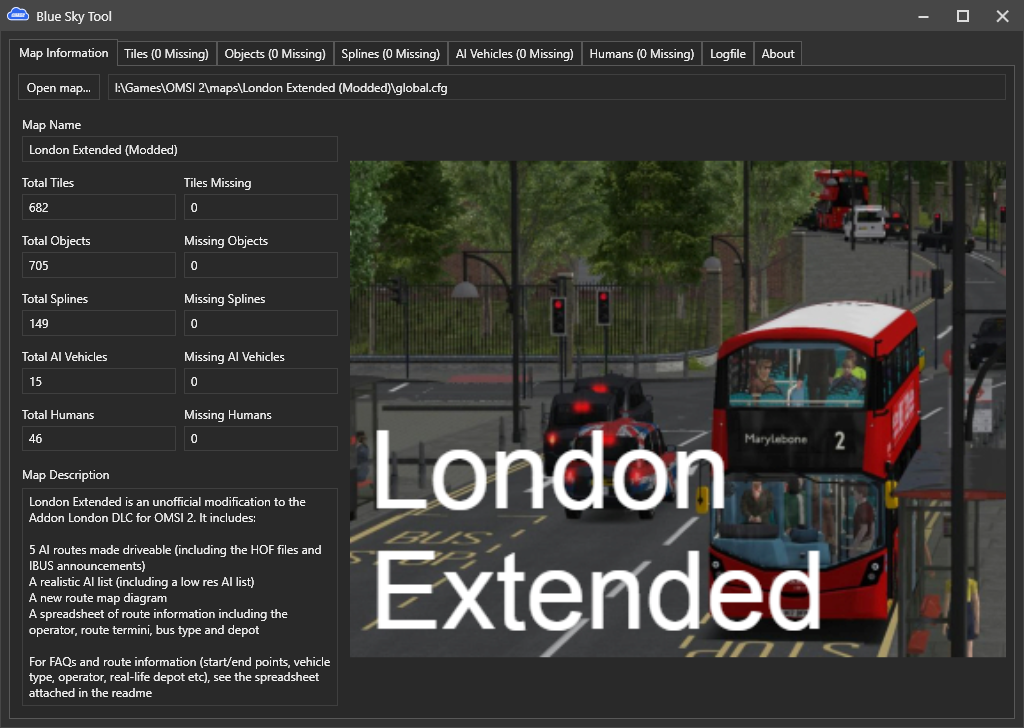
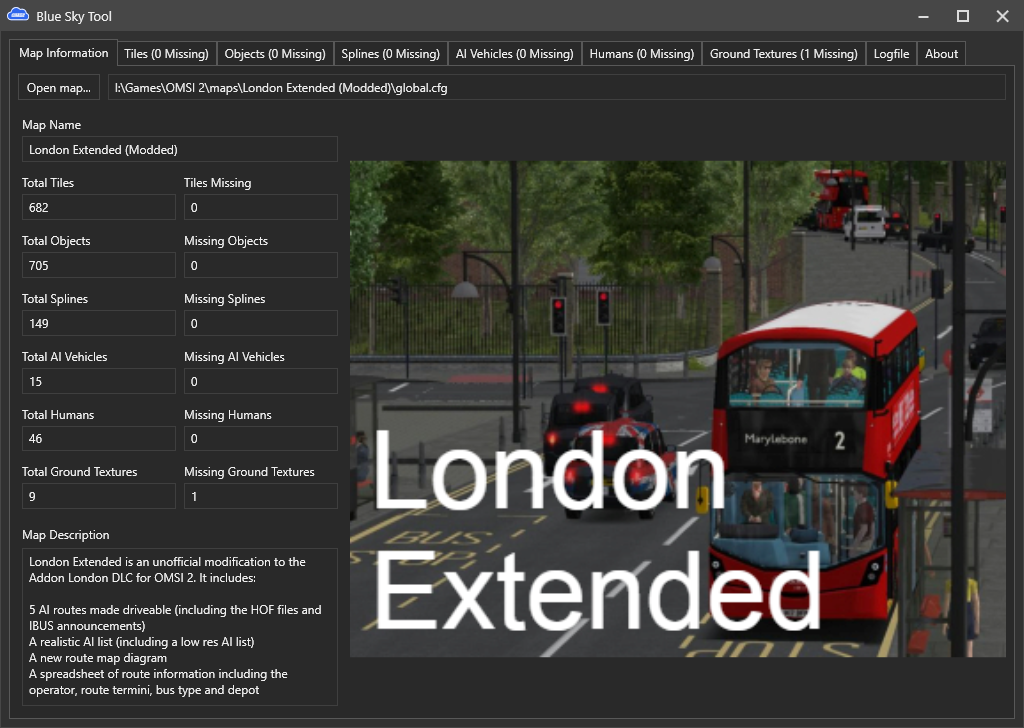
Update readme

Changed region(s): [[0.0, 0.6346, 0.3125, 0.967], [0.6875, 0.0604, 0.9375, 0.0907]]

diff --git a/README.md b/README.md
@@ -2,7 +2,21 @@
 
 Blue Sky Tool is developed as an advanced version of OMSI Map Tools. Blue Sky allows users to scan for missing objects, splines, AI Vehicles, parked cars, humans and drivers.
 
-## Modified to include dark theme:
+# Fork modified from original:
+
+- Original software credits: CDLBT ([github](https://github.com/cdlbt-co) / [website](https://cdlbt.co/))
+- Fork modification credits: sjain882 ([github](https://github.com/sjain882))
+
+## Changes: 
+
+- Upgrade from .NET Framework 4.0 -> .NET 8.0
+- Add automatic light/dark theme support
+- Fix app not exiting on close
+- Fix visual cut-off bug in main page counts
+- Fix progress bar going under main window
+- Add support for Ground Textures 
+
+## Dark theme:
 
 Auto detects light/dark theme based on Windows 10+ app mode setting.
 
